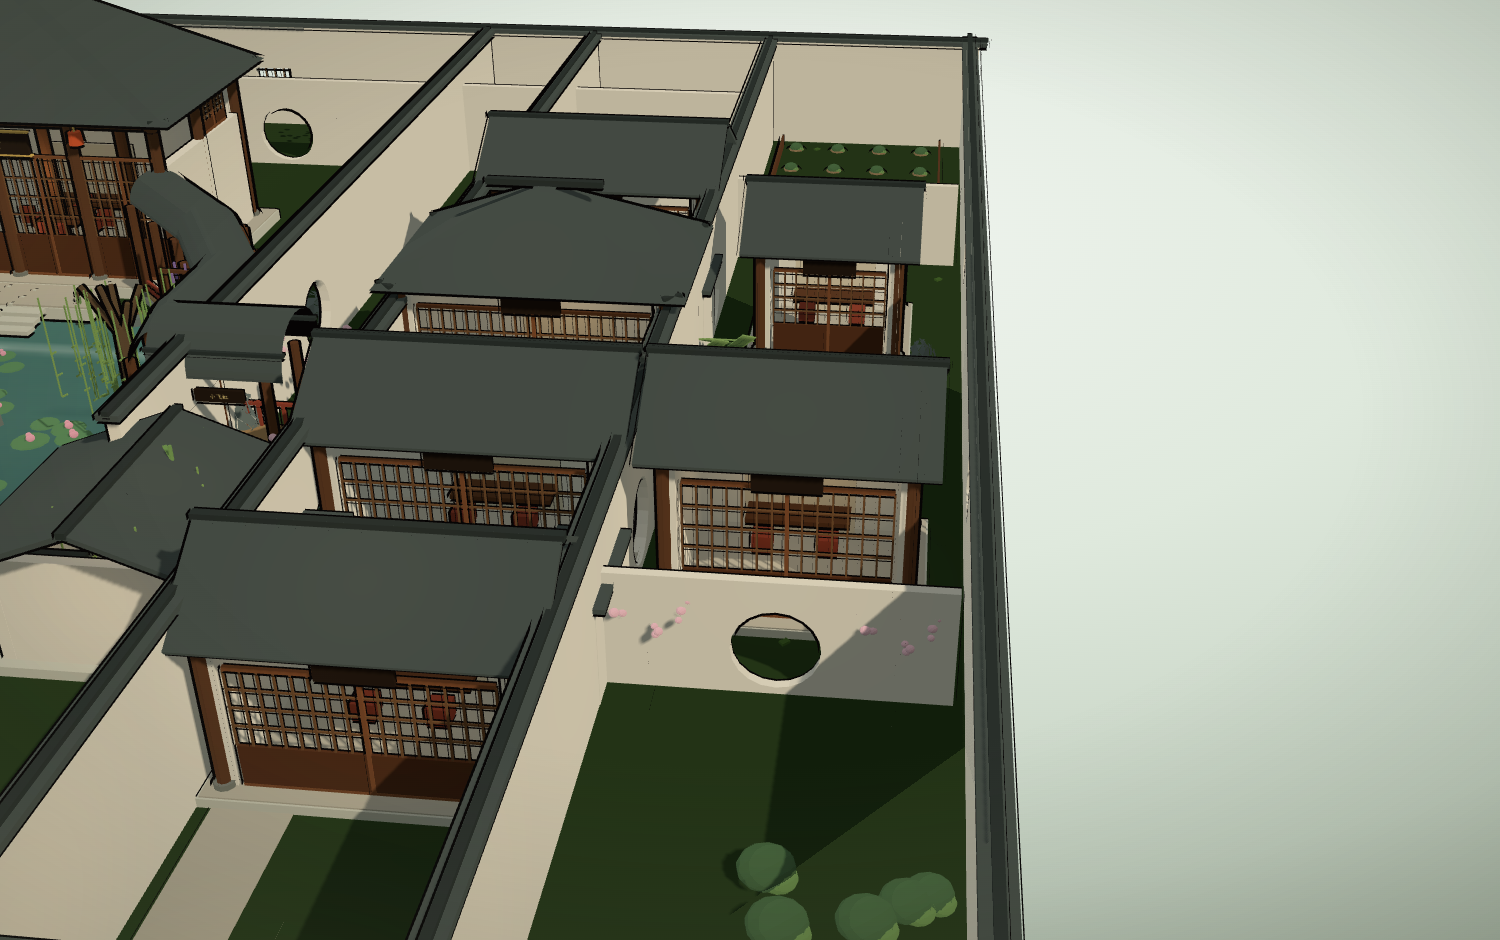
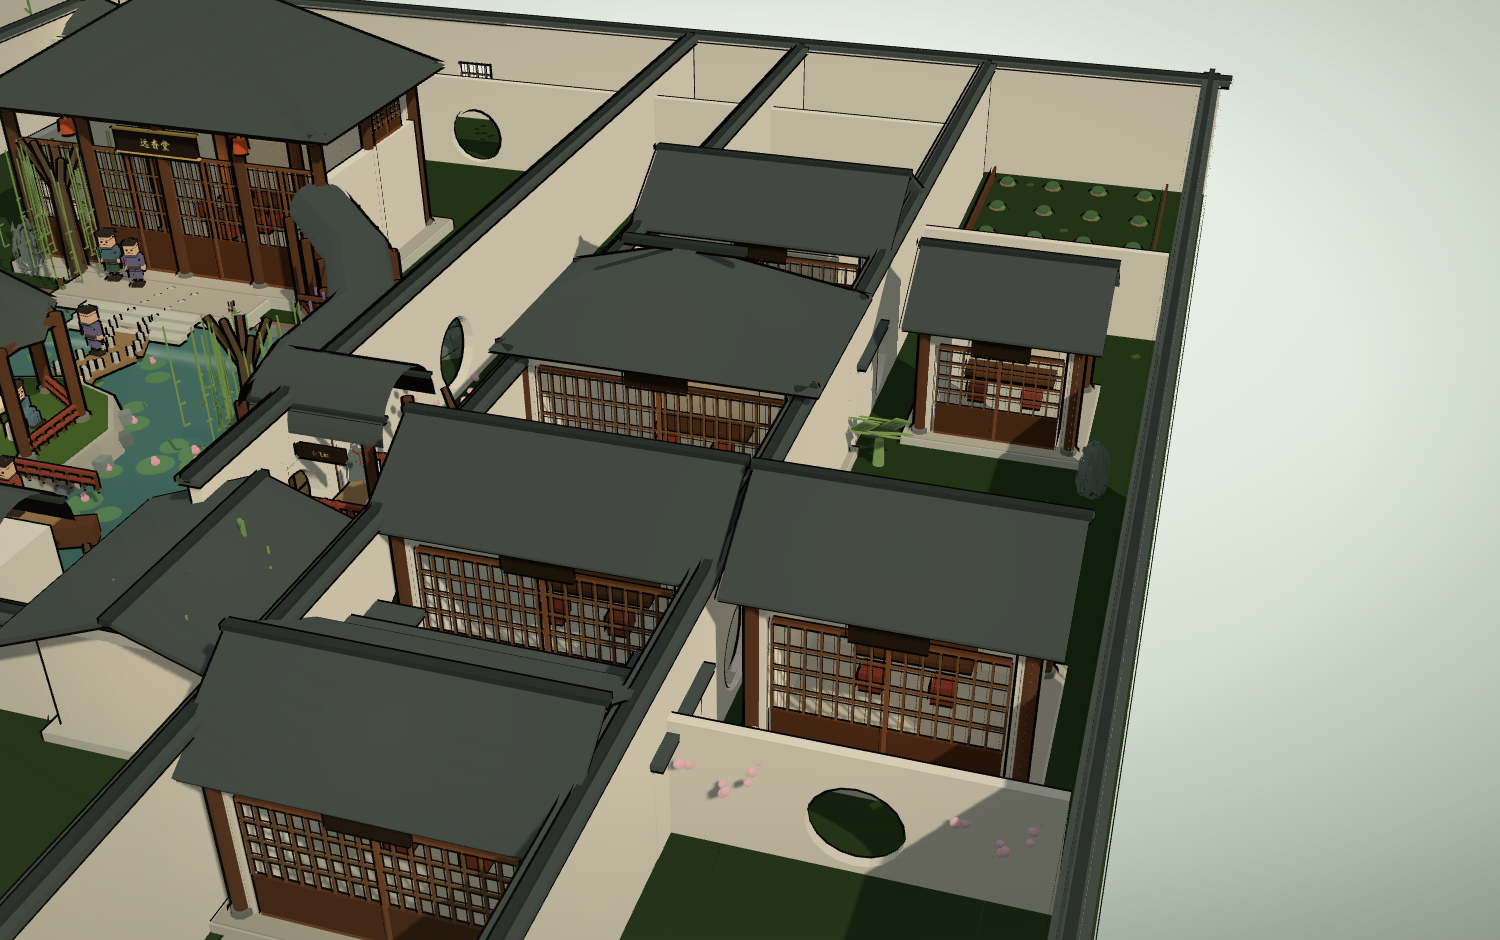
feat(garden): 西池成景、假山四整石加洞壑

diff --git a/docs/garden.html b/docs/garden.html
@@ -53,6 +53,7 @@ window.PRESET = {
     "gdStoneL": 13158586,
     "gdRock": 6976881,
     "gdRockL": 8490118,
+    "gdRockD": 3752510,
     "gdPave": 11972768,
     "gdWoodD": 6044196,
     "gdWoodR": 9322286,
@@ -73,6 +74,7 @@ window.PRESET = {
     "gdBloom": 6064734,
     "gdFlower": 15247032,
     "gdWaterD": 5012853,
+    "gdFoam": 15661555,
     "gdBark": 6179380,
     "gdLeaf1": 8364634,
     "gdLeaf2": 4877125,
@@ -17347,7 +17349,7 @@ function gdGround(b) {
     b.box('gdGrass', w, 0.08, d, cx, GD_GY + 0.04, cz);   /* 草皮顶面 = GD_GY + 0.08 */
   }
   /* 西侧南北溪流 x -26.1..-21.9：陆地必须按溪槽拆开，否则水面被埋在草下 */
-  const RX0 = -26.7, RX1 = -21.3;
+  const RX0 = -28.2, RX1 = -19.8;
   land(GD_X0, RX0, GD_Z0, PZ0);          // 北-西
   land(RX1, GD_X1, GD_Z0, PZ0);          // 北-东
   land(GD_X0, RX0, PZ1, GD_Z1);          // 南-西
@@ -17409,10 +17411,10 @@ function gdWater(g) {
   m2.position.set(15.8, GD_WY, 4.7);
   g.add(m2);
   /* 西侧南北溪流：与主池共用贴图，水一起流动 */
-  const g3 = new T.PlaneGeometry(5.0, 45.6);
+  const g3 = new T.PlaneGeometry(8.0, 30.0);
   g3.rotateX(-Math.PI / 2);
   const m3 = new T.Mesh(g3, mat);
-  m3.position.set(-24.0, GD_WY + 0.22, 0);
+  m3.position.set(-24.0, GD_GY + 0.01, -2.0);
   g.add(m3);
   return tex;
 }
@@ -17889,15 +17891,46 @@ function gdRock(b, x, y, z, sx, sy, sz, seed) {
   b.add('gdRock', g);
 }
 
+
+/* 整块变形山体：一个连续几何，没有球与球的接缝，近景也不会碎成纸片 */
+function gdRockMass(b, cx, cz, w, d, h, seed) {
+  const g = new T.SphereGeometry(1, 32, 22);
+  const p = g.attributes.position;
+  for (let i = 0; i < p.count; i++) {
+    let x = p.getX(i), y = p.getY(i), z = p.getZ(i);
+    /* 半径噪声：低频起伏 + 高频皱褶，模拟太湖石的「瘦皱」 */
+    const n = 1
+      + 0.15 * Math.sin(x * 3.7 + seed) * Math.cos(z * 3.1 + seed * 1.7)
+      + 0.08 * Math.sin(x * 8.3 + z * 6.7 + seed * 2.3);
+    x *= w * 0.5 * n;
+    z *= d * 0.5 * n;
+    let yy = y * h * 0.5;
+    if (yy < 0) yy *= 0.30;                       // 底部收窄，稳稳坐在岸上
+    /* 山脊：中心隆起，形成主峰而非圆馒头 */
+    const peak = Math.exp(-((x * x) / (w * w * 0.10) + (z * z) / (d * d * 0.14))) * h * 0.62;
+    yy += peak * Math.max(0, y + 1) * 0.55;
+    p.setXYZ(i, x, yy, z);
+  }
+  g.computeVertexNormals();
+  g.translate(cx, GD_GY + 0.05, cz);
+  b.add('gdRock', g);
+}
+
+/* 洞壑：山体正面嵌几个深色凹陷，远看就是「透」的洞 */
+function gdCave(b, x, y, z, r, ry) {
+  b.sph('gdRockD', r, x, y, z, 1, 0.85, 0.55);
+  b.sph('gdRockD', r * 0.55, x + 0.15, y + r * 0.20, z - 0.02, 1, 0.9, 0.5);
+}
 function gdHills(b) {
-  /* 主峰：三块大石 + 一块瘦峰，少而大。
-     多个中等球叠加会互相穿插露出内壁，近景就是一堆碎纸片。 */
+  /* 四块整石：少而大。多点叠加会露内壁，整块变形又会拉成石柱，四块是最稳的折中 */
   const HX = -4.5, cz = 12.6;
   gdRock(b, HX + 2.4, GD_GY + 1.55, cz, 1.55, 2.55, 1.35, 1);
   gdRock(b, HX + 0.3, GD_GY + 0.90, cz + 0.7, 1.60, 1.05, 1.45, 2);
   gdRock(b, HX + 4.4, GD_GY + 0.85, cz - 0.5, 1.50, 1.00, 1.40, 3);
-  gdRock(b, HX + 2.5, GD_GY + 4.05, cz + 0.1, 0.55, 1.30, 0.50, 4);
-  /* 苔藓：压在石肩，遮住石与石的接缝 */
+  gdRock(b, HX + 2.5, GD_GY + 4.05, cz + 0.1, 0.58, 1.28, 0.52, 4);
+  /* 洞壑：深色凹陷贴在石面上，读出「透」 */
+  gdCave(b, HX + 1.5, GD_GY + 1.10, cz + 1.35, 0.58);
+  gdCave(b, HX + 3.4, GD_GY + 1.55, cz + 1.10, 0.40);
   for (let i = 0; i < 10; i++) {
     const a = gdR(i * 3.1) * Math.PI * 2;
     const r = 0.5 + gdR(i * 5.7) * 1.4;
@@ -17905,15 +17938,12 @@ function gdHills(b) {
       HX + 2.4 + Math.cos(a) * r, GD_GY + 2.1 + gdR(i * 9.1) * 1.6,
       cz + Math.sin(a) * r * 0.7, 1.3, 0.30, 1.1);
   }
-  /* 上山步道 */
   for (let i = 0; i < 6; i++) {
     b.box('gdStoneL', 0.95, 0.16, 0.52,
       0.9 - i * 0.26, GD_GY + 0.28 + i * 0.40, 11.0 + i * 0.26, 0, -0.55, 0);
   }
-  /* 次峰 */
   gdRock(b, -9.0, GD_GY + 0.85, 1.0, 1.30, 1.05, 1.10, 11);
   gdRock(b, -8.5, GD_GY + 1.85, 0.7, 0.70, 0.95, 0.62, 12);
-  /* 池边立峰 */
   gdRock(b, -4.8, GD_GY + 1.30, 10.0, 0.60, 1.30, 0.55, 21);
   gdRock(b, 13.2, GD_GY + 1.00, 11.2, 0.52, 1.00, 0.48, 22);
   gdRock(b, -4.3, GD_GY + 1.05, -6.4, 0.48, 1.10, 0.46, 23);
@@ -18125,17 +18155,17 @@ function gdFrontCourt(b) {
 /* ---------------- 西花园：南北溪流 + 石桥 + 竹林梅林 ---------------- */
 function gdWestGarden(b) {
   /* 溪流贯穿南北，把西侧 20 米空地变成「水轴」 */
-  b.box('gdBaseD', 5.4, 0.30, 46.0, -24.0, GD_GY - 0.14, 0);
-  for (let i = 0; i < 42; i++) {
-    const z = -22.5 + i * 1.10;
+  b.box('gdBaseD', 8.4, 0.30, 30.4, -24.0, GD_GY - 0.14, -2.0);
+  for (let i = 0; i < 44; i++) {
+    const z = -16.5 + i * 0.75;
     [-1, 1].forEach(function (s) {
       b.box(i % 2 ? 'gdRock' : 'gdRockL', 0.45, 0.35, 0.55,
-        -24.0 + s * 2.65, GD_WY + 0.34, z, 0, gdR(i * 3.1) * 1.2, 0.10);
+        -24.0 + s * 4.10, GD_GY + 0.14, z, 0, gdR(i * 3.1) * 1.2, 0.10);
     });
   }
   /* 三座石板桥，桥栏留矮石 */
-  [-12.0, 2.0, 16.0].forEach(function (z, k) {
-    b.box('gdStoneL', 7.2, 0.18, 1.3, -24.0, GD_GY + 0.10, z);
+  [-11.0, -2.0, 7.0].forEach(function (z, k) {
+    b.box('gdStoneL', 9.2, 0.18, 1.3, -24.0, GD_GY + 0.10, z);
     for (let i = 0; i < 6; i++) {
       b.box('gdStoneL', 0.20, 0.30, 0.20, -26.8 + i * 1.1, GD_GY + 0.30, z - 0.56);
       b.box('gdStoneL', 0.20, 0.30, 0.20, -26.8 + i * 1.1, GD_GY + 0.30, z + 0.56);
@@ -18147,6 +18177,12 @@ function gdWestGarden(b) {
   }
   for (let i = 0; i < 14; i++) {
     gdPlum(b, -21.2 + gdR(i * 4.3) * 3.6, -22.0 + gdR(i * 6.1) * 44.0, 0.78 + gdR(i * 8.7) * 0.26);
+  }
+  /* 水面浮沫：细碎白条顺流散布，溪水才读得出「在流」 */
+  for (let i = 0; i < 44; i++) {
+    b.box('gdFoam', 0.22 + gdR(i * 3.7) * 0.32, 0.02, 0.05,
+      -24.0 + (gdR(i * 5.1) - 0.5) * 7.0, GD_GY + 0.05,
+      -15.5 + gdR(i * 7.3) * 28.0);
   }
   /* 西岸临水小亭 */
   const cx = -28.2, cz = -3.0, FY = GD_GY + 0.40;
@@ -18530,7 +18566,7 @@ function buildGdAll() {
   gdPeople(b);
 
   b.build(g, {
-    noOutline: ['gdGrass', 'gdGrassL', 'gdBloom', 'gdFlower', 'gdRock', 'gdRockL', 'gdLeaf1', 'gdLeaf2',
+    noOutline: ['gdGrass', 'gdGrassL', 'gdBloom', 'gdFlower', 'gdRock', 'gdRockL', 'gdRockD', 'gdFoam', 'gdLeaf1', 'gdLeaf2',
       'gdLeaf3', 'gdLeaf4', 'gdBlossom', 'gdVine', 'gdSky']
   });
 

diff --git a/src/scene.js b/src/scene.js
@@ -17206,7 +17206,7 @@ function gdGround(b) {
     b.box('gdGrass', w, 0.08, d, cx, GD_GY + 0.04, cz);   /* 草皮顶面 = GD_GY + 0.08 */
   }
   /* 西侧南北溪流 x -26.1..-21.9：陆地必须按溪槽拆开，否则水面被埋在草下 */
-  const RX0 = -26.7, RX1 = -21.3;
+  const RX0 = -28.2, RX1 = -19.8;
   land(GD_X0, RX0, GD_Z0, PZ0);          // 北-西
   land(RX1, GD_X1, GD_Z0, PZ0);          // 北-东
   land(GD_X0, RX0, PZ1, GD_Z1);          // 南-西
@@ -17268,10 +17268,10 @@ function gdWater(g) {
   m2.position.set(15.8, GD_WY, 4.7);
   g.add(m2);
   /* 西侧南北溪流：与主池共用贴图，水一起流动 */
-  const g3 = new T.PlaneGeometry(5.0, 45.6);
+  const g3 = new T.PlaneGeometry(8.0, 30.0);
   g3.rotateX(-Math.PI / 2);
   const m3 = new T.Mesh(g3, mat);
-  m3.position.set(-24.0, GD_WY + 0.22, 0);
+  m3.position.set(-24.0, GD_GY + 0.01, -2.0);
   g.add(m3);
   return tex;
 }
@@ -17748,15 +17748,46 @@ function gdRock(b, x, y, z, sx, sy, sz, seed) {
   b.add('gdRock', g);
 }
 
+
+/* 整块变形山体：一个连续几何，没有球与球的接缝，近景也不会碎成纸片 */
+function gdRockMass(b, cx, cz, w, d, h, seed) {
+  const g = new T.SphereGeometry(1, 32, 22);
+  const p = g.attributes.position;
+  for (let i = 0; i < p.count; i++) {
+    let x = p.getX(i), y = p.getY(i), z = p.getZ(i);
+    /* 半径噪声：低频起伏 + 高频皱褶，模拟太湖石的「瘦皱」 */
+    const n = 1
+      + 0.15 * Math.sin(x * 3.7 + seed) * Math.cos(z * 3.1 + seed * 1.7)
+      + 0.08 * Math.sin(x * 8.3 + z * 6.7 + seed * 2.3);
+    x *= w * 0.5 * n;
+    z *= d * 0.5 * n;
+    let yy = y * h * 0.5;
+    if (yy < 0) yy *= 0.30;                       // 底部收窄，稳稳坐在岸上
+    /* 山脊：中心隆起，形成主峰而非圆馒头 */
+    const peak = Math.exp(-((x * x) / (w * w * 0.10) + (z * z) / (d * d * 0.14))) * h * 0.62;
+    yy += peak * Math.max(0, y + 1) * 0.55;
+    p.setXYZ(i, x, yy, z);
+  }
+  g.computeVertexNormals();
+  g.translate(cx, GD_GY + 0.05, cz);
+  b.add('gdRock', g);
+}
+
+/* 洞壑：山体正面嵌几个深色凹陷，远看就是「透」的洞 */
+function gdCave(b, x, y, z, r, ry) {
+  b.sph('gdRockD', r, x, y, z, 1, 0.85, 0.55);
+  b.sph('gdRockD', r * 0.55, x + 0.15, y + r * 0.20, z - 0.02, 1, 0.9, 0.5);
+}
 function gdHills(b) {
-  /* 主峰：三块大石 + 一块瘦峰，少而大。
-     多个中等球叠加会互相穿插露出内壁，近景就是一堆碎纸片。 */
+  /* 四块整石：少而大。多点叠加会露内壁，整块变形又会拉成石柱，四块是最稳的折中 */
   const HX = -4.5, cz = 12.6;
   gdRock(b, HX + 2.4, GD_GY + 1.55, cz, 1.55, 2.55, 1.35, 1);
   gdRock(b, HX + 0.3, GD_GY + 0.90, cz + 0.7, 1.60, 1.05, 1.45, 2);
   gdRock(b, HX + 4.4, GD_GY + 0.85, cz - 0.5, 1.50, 1.00, 1.40, 3);
-  gdRock(b, HX + 2.5, GD_GY + 4.05, cz + 0.1, 0.55, 1.30, 0.50, 4);
-  /* 苔藓：压在石肩，遮住石与石的接缝 */
+  gdRock(b, HX + 2.5, GD_GY + 4.05, cz + 0.1, 0.58, 1.28, 0.52, 4);
+  /* 洞壑：深色凹陷贴在石面上，读出「透」 */
+  gdCave(b, HX + 1.5, GD_GY + 1.10, cz + 1.35, 0.58);
+  gdCave(b, HX + 3.4, GD_GY + 1.55, cz + 1.10, 0.40);
   for (let i = 0; i < 10; i++) {
     const a = gdR(i * 3.1) * Math.PI * 2;
     const r = 0.5 + gdR(i * 5.7) * 1.4;
@@ -17764,15 +17795,12 @@ function gdHills(b) {
       HX + 2.4 + Math.cos(a) * r, GD_GY + 2.1 + gdR(i * 9.1) * 1.6,
       cz + Math.sin(a) * r * 0.7, 1.3, 0.30, 1.1);
   }
-  /* 上山步道 */
   for (let i = 0; i < 6; i++) {
     b.box('gdStoneL', 0.95, 0.16, 0.52,
       0.9 - i * 0.26, GD_GY + 0.28 + i * 0.40, 11.0 + i * 0.26, 0, -0.55, 0);
   }
-  /* 次峰 */
   gdRock(b, -9.0, GD_GY + 0.85, 1.0, 1.30, 1.05, 1.10, 11);
   gdRock(b, -8.5, GD_GY + 1.85, 0.7, 0.70, 0.95, 0.62, 12);
-  /* 池边立峰 */
   gdRock(b, -4.8, GD_GY + 1.30, 10.0, 0.60, 1.30, 0.55, 21);
   gdRock(b, 13.2, GD_GY + 1.00, 11.2, 0.52, 1.00, 0.48, 22);
   gdRock(b, -4.3, GD_GY + 1.05, -6.4, 0.48, 1.10, 0.46, 23);
@@ -17984,17 +18012,17 @@ function gdFrontCourt(b) {
 /* ---------------- 西花园：南北溪流 + 石桥 + 竹林梅林 ---------------- */
 function gdWestGarden(b) {
   /* 溪流贯穿南北，把西侧 20 米空地变成「水轴」 */
-  b.box('gdBaseD', 5.4, 0.30, 46.0, -24.0, GD_GY - 0.14, 0);
-  for (let i = 0; i < 42; i++) {
-    const z = -22.5 + i * 1.10;
+  b.box('gdBaseD', 8.4, 0.30, 30.4, -24.0, GD_GY - 0.14, -2.0);
+  for (let i = 0; i < 44; i++) {
+    const z = -16.5 + i * 0.75;
     [-1, 1].forEach(function (s) {
       b.box(i % 2 ? 'gdRock' : 'gdRockL', 0.45, 0.35, 0.55,
-        -24.0 + s * 2.65, GD_WY + 0.34, z, 0, gdR(i * 3.1) * 1.2, 0.10);
+        -24.0 + s * 4.10, GD_GY + 0.14, z, 0, gdR(i * 3.1) * 1.2, 0.10);
     });
   }
   /* 三座石板桥，桥栏留矮石 */
-  [-12.0, 2.0, 16.0].forEach(function (z, k) {
-    b.box('gdStoneL', 7.2, 0.18, 1.3, -24.0, GD_GY + 0.10, z);
+  [-11.0, -2.0, 7.0].forEach(function (z, k) {
+    b.box('gdStoneL', 9.2, 0.18, 1.3, -24.0, GD_GY + 0.10, z);
     for (let i = 0; i < 6; i++) {
       b.box('gdStoneL', 0.20, 0.30, 0.20, -26.8 + i * 1.1, GD_GY + 0.30, z - 0.56);
       b.box('gdStoneL', 0.20, 0.30, 0.20, -26.8 + i * 1.1, GD_GY + 0.30, z + 0.56);
@@ -18006,6 +18034,12 @@ function gdWestGarden(b) {
   }
   for (let i = 0; i < 14; i++) {
     gdPlum(b, -21.2 + gdR(i * 4.3) * 3.6, -22.0 + gdR(i * 6.1) * 44.0, 0.78 + gdR(i * 8.7) * 0.26);
+  }
+  /* 水面浮沫：细碎白条顺流散布，溪水才读得出「在流」 */
+  for (let i = 0; i < 44; i++) {
+    b.box('gdFoam', 0.22 + gdR(i * 3.7) * 0.32, 0.02, 0.05,
+      -24.0 + (gdR(i * 5.1) - 0.5) * 7.0, GD_GY + 0.05,
+      -15.5 + gdR(i * 7.3) * 28.0);
   }
   /* 西岸临水小亭 */
   const cx = -28.2, cz = -3.0, FY = GD_GY + 0.40;
@@ -18389,7 +18423,7 @@ function buildGdAll() {
   gdPeople(b);
 
   b.build(g, {
-    noOutline: ['gdGrass', 'gdGrassL', 'gdBloom', 'gdFlower', 'gdRock', 'gdRockL', 'gdLeaf1', 'gdLeaf2',
+    noOutline: ['gdGrass', 'gdGrassL', 'gdBloom', 'gdFlower', 'gdRock', 'gdRockL', 'gdRockD', 'gdFoam', 'gdLeaf1', 'gdLeaf2',
       'gdLeaf3', 'gdLeaf4', 'gdBlossom', 'gdVine', 'gdSky']
   });
 

diff --git a/src/presets.js b/src/presets.js
@@ -1320,7 +1320,7 @@
         gdSoil: 0x8d7556, gdSoilD: 0x63513c,
         gdGrass: 0x273a1c, gdGrassL: 0x41602a,
         gdStone: 0xa8a89c, gdStoneD: 0x777a72, gdStoneL: 0xc8c8ba,
-        gdRock: 0x6a7571, gdRockL: 0x818c86,
+        gdRock: 0x6a7571, gdRockL: 0x818c86, gdRockD: 0x39423e,
         gdPave: 0xb6b0a0,
         /* 木作：栗色梁柱 + 朱漆栏杆 */
         gdWoodD: 0x5c3a24, gdWoodR: 0x8e3f2e,
@@ -1332,7 +1332,7 @@
         gdSignBox: 0x241a12, gdGold: 0xd8b35e, gdLantern: 0xd4562e,
         gdScreenP: 0xd9cdb4, gdSky: 0xcfe0e6,
         /* 水 / 荷 */
-        gdBloom: 0x5c8a5e, gdFlower: 0xe8a6b8, gdWaterD: 0x4c7d75,
+        gdBloom: 0x5c8a5e, gdFlower: 0xe8a6b8, gdWaterD: 0x4c7d75, gdFoam: 0xeef9f3,
         /* 植被 */
         gdBark: 0x5e4a34,
         gdLeaf1: 0x7fa25a, gdLeaf2: 0x4a6b45, gdLeaf3: 0x6f9455, gdLeaf4: 0x88a862,

diff --git a/README.md b/README.md
@@ -420,7 +420,7 @@ CT_ANIM.push(function (t) {
 - **移步换景**：入口在东南，进门厅、迎面影壁挡住池景，转进东院再见水；
 - **宅园并列**：东侧是四进宅院（门厅 → 轿厅 → 正厅 → 内厅 + 三个天井 + 后院），
   与西侧主园以一道长墙相隔，墙上开两个月洞门；西南另有一个枇杷园小院。
-  一园之内共 9 个景区/院落：西花园（南北溪流 + 竹林梅林）、主园、门厅院、轿厅院、
+  一园之内共 9 个景区/院落：西花园（8×30 米西池 + 竹林梅林 + 石桥）、主园、门厅院、轿厅院、
   正厅院、内厅后院、东路花厅院、海棠春坞、书房院、北后园、南前庭、枇杷园。
 
 踩过的四个坑：
@@ -435,7 +435,7 @@ CT_ANIM.push(function (t) {
 - **太湖石不能带描边**。顶点扰动的二十面体每个面都生成反向外壳，叠在一起就是碎玻璃；
   石头进 `noOutline`、扰动收到 0.86~1.12、细分 2，才是整块石头。
 
-定稿 105 mesh / 258232 三角，`magenta:[] / errors:[]`；19 套全量回归全绿。
+定稿 107 mesh / 259576 三角，`magenta:[] / errors:[]`；19 套全量回归全绿。
 
 ### 人物：刻意几何化的积木人
 
